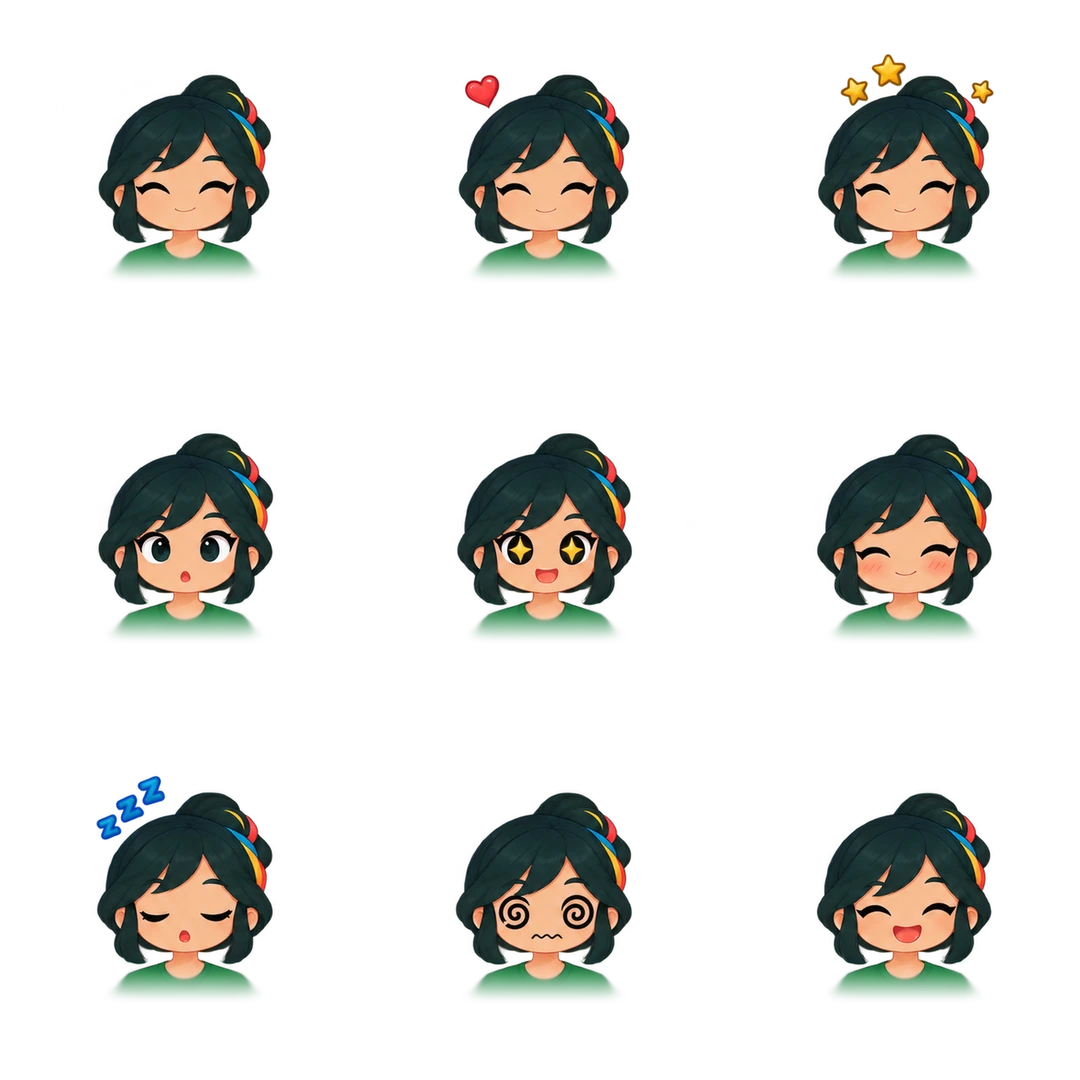
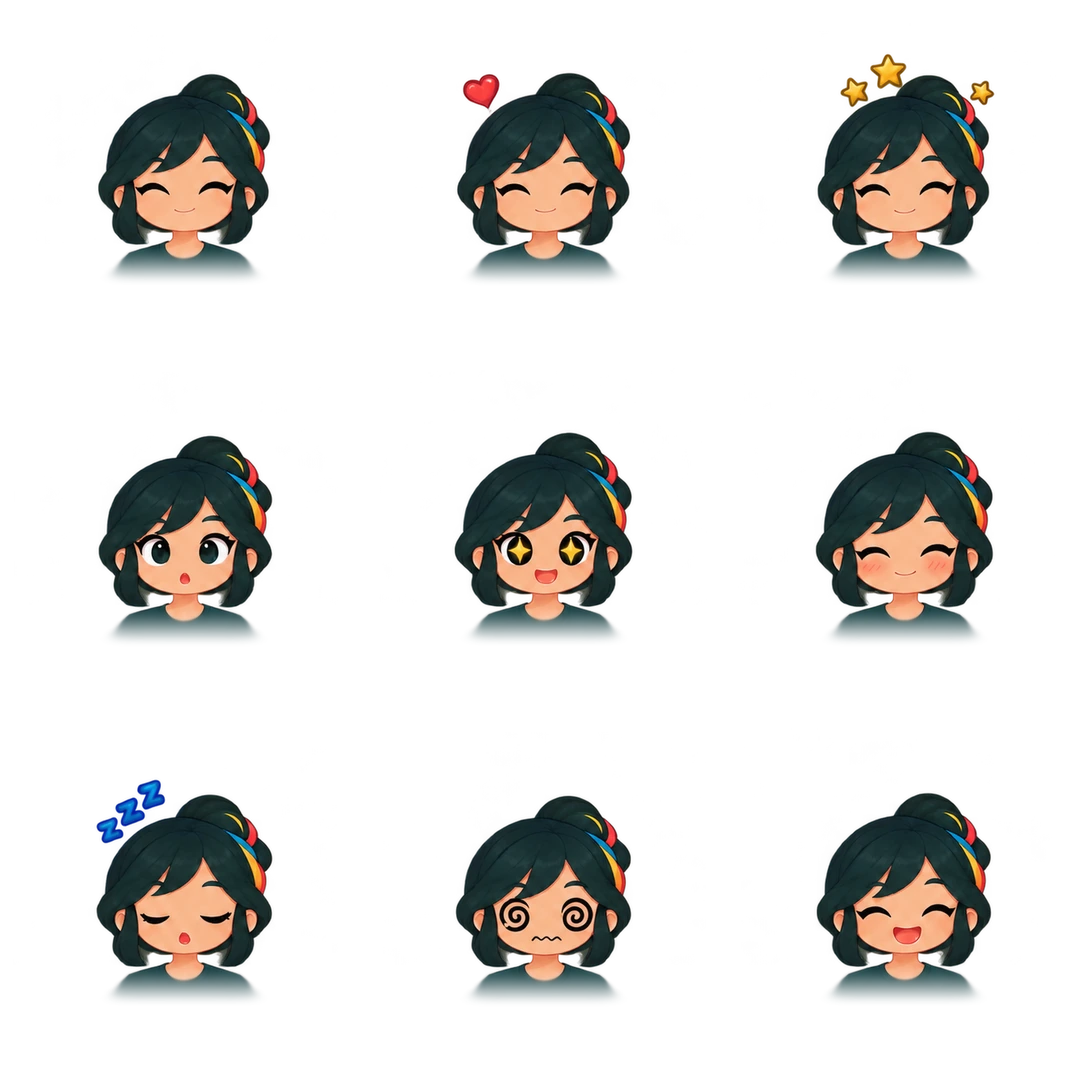
Match Nara tee to her original dark teal color
Assisted-by: Codex

diff --git a/frontend/characters/nara-default/README.md b/frontend/characters/nara-default/README.md
@@ -1,14 +1,14 @@
 # Nara default — member chatbot
 
-Current outfit: a plain solid green crew-neck T-shirt, requested October 16, 2026. The cream top and teal cardigan from commit `8935de64` are superseded.
+Current outfit: a plain crew-neck T-shirt in the original cardigan's dark muted teal-green, corrected October 16, 2026. The owner requested the original clothing color in a simple tee. The cream top/cardigan from `8935de64` and bright green tee from `5f5a051f` are superseded.
 
 ## Sources and edit
 
-The built-in image generation tool edited the existing Nara sheets with `transparent_background: true`. The directions edit referenced the previous default directions; the reactions edit referenced the previous default reactions and the accepted green-tee directions. One image call per sheet, with no retries.
+The built-in image generation tool edited the existing Nara sheets with `transparent_background: true`. The directions edit referenced the previous tee directions and the original cardigan sheet. The reactions edit referenced the previous tee reactions, accepted dark-tee directions and original cardigan sheet. One image call per sheet, with no retries. The original cardigan reference is the first default directions generation, retained in commit `8935de64` and locally as `exec-a02f9eaa-7202-4324-b78a-71f6e44162dd.png` in the conversation's generated-images directory.
 
-The prompts requested a clothing-only replacement: one plain green tee (base color reference `#16A34A`, with normal illustration shading), no cardigan, cream collar, lettering, logo or pattern. Preserve Nara's warm skin, face proportions, large dark teal eyes/catchlights, blush, swept bangs, compact bun and cyan/yellow/coral hair accents. Retain all head directions, front-facing torsos, reactions, transparent gutters and upper-shoulder framing.
+The prompts requested a fabric-color-only edit: keep the closed plain crew-neck tee silhouette and match the original cardigan's dark muted teal-green (approximate color references `#17464B` / `#1A474A`, with normal illustration shading). No cardigan, cream collar, lettering, logo or pattern. Preserve Nara's warm skin, face proportions, large dark teal eyes/catchlights, blush, swept bangs, compact bun and cyan/yellow/coral hair accents. Retain all head directions, front-facing torsos, reactions, transparent gutters and upper-shoulder framing.
 
-- `directions.png` and `reactions.png`: current accepted green-tee sources, both 1254 × 1254 RGBA, directly copied from the image tool. No geometry normalization was required for this revision.
+- `directions.png` and `reactions.png`: current accepted dark teal-green tee sources, both 1254 × 1254 RGBA, directly copied from the image tool. No geometry normalization was required for this revision.
 - Served assets: `../../public/mascots/nara-default-directions.webp` and `nara-default-reactions.webp`, each 1080 × 1080 with alpha.
 - `reactions-generated.png` and `normalize-reactions.py` are historical artifacts from the first cardigan variant. **Do not run the old normalizer over the current green-tee source.** Initial sources and evidence are recoverable from commit `8935de64`.
 
@@ -27,9 +27,9 @@ On this machine, the isolated tool packages are at `C:\Users\chima\.codex\scratc
 
 ## Current verification — October 16, 2026
 
-[Packing output](packing-verification.txt): both sources have real alpha and no cell-edge contacts. Shoulder spread is 2.7% in both sheets. Packed vertical shift is 0.00 rendered px at 140 px, palette agreement 76.7%, shoulder-width difference 4.7%, minimum body-band overlap 70.9%. These measurements do not imply pixel-identical artwork.
+[Packing output](packing-verification.txt): both sources have real alpha and no cell-edge contacts. Shoulder spread is 1.3% in directions and 2.1% in reactions. Packed vertical shift is 0.00 rendered px at 140 px, palette agreement 68.8%, shoulder-width difference 4.5%, minimum body-band overlap 74.1%. These measurements do not imply pixel-identical artwork.
 
-Local inspection covers [all eighteen cells](verification/atlas-contact.png), [viewer-left/right crops](verification/viewer-left-right.png), [front/blink alignment](verification/alignment-overlay.png), and [32/40/48/88 px previews on light/dark backgrounds](verification/portrait-sizes.png). The plain green tee is present throughout; the smiling hover mouth and spiral eyes remain recognizable. [Framing measurements](verification/framing.json) find zero clipped pixels above alpha 40 in every frame at the existing 1.2× portrait scale. The skill's bottom fade is retained. Generated contour/bun and shoulder-detail variation remains; measured shoulder-width difference is 4.7%.
+Local inspection covers [all eighteen cells](verification/atlas-contact.png), [viewer-left/right crops](verification/viewer-left-right.png), [front/blink alignment](verification/alignment-overlay.png), and [32/40/48/88 px previews on light/dark backgrounds](verification/portrait-sizes.png). The plain dark teal-green tee is present throughout; the smiling hover mouth and spiral eyes remain recognizable. [Framing measurements](verification/framing.json) find zero clipped pixels above alpha 40 in every frame at the existing 1.2× portrait scale. The skill's bottom fade is retained. Generated contour/bun and shoulder-detail variation remains; measured shoulder-width difference is 4.5%.
 
 `npx vitest run src/features/member-assistant/nara-portrait.test.tsx src/features/member-assistant/nara-chat.test.tsx`: **18 tests pass in 2 files**, covering local alpha WebP assets, portrait dimensions, all moods, pointer-follow, thinking cadence, hidden-tab/reduced-motion behavior, hover greetings and failure/credit reactions.
 
